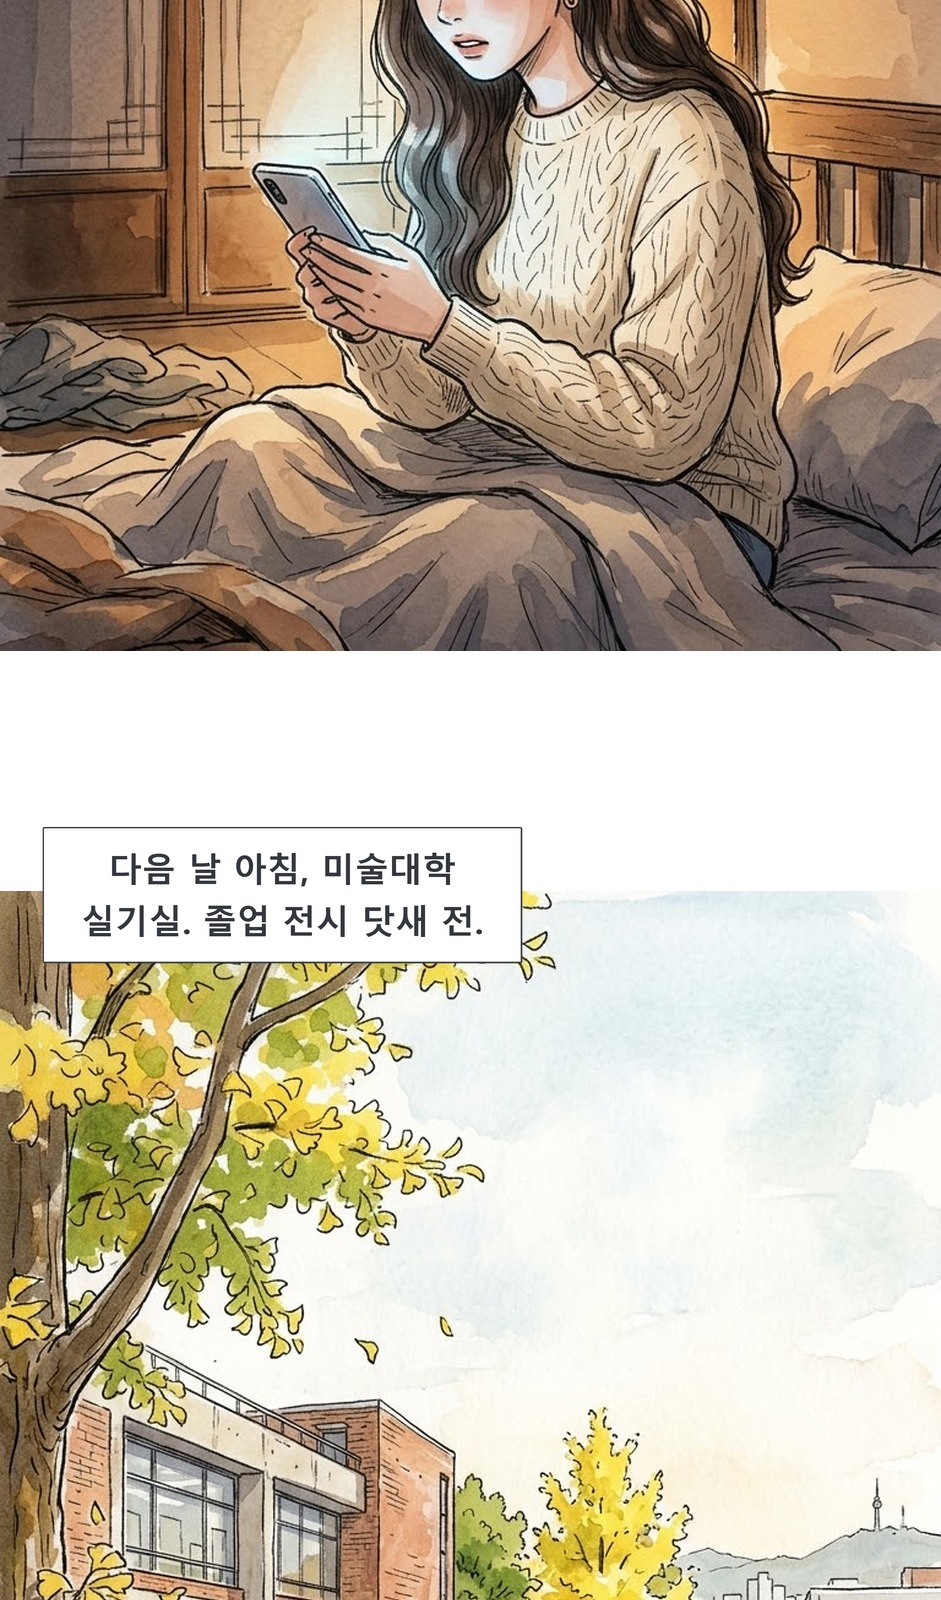
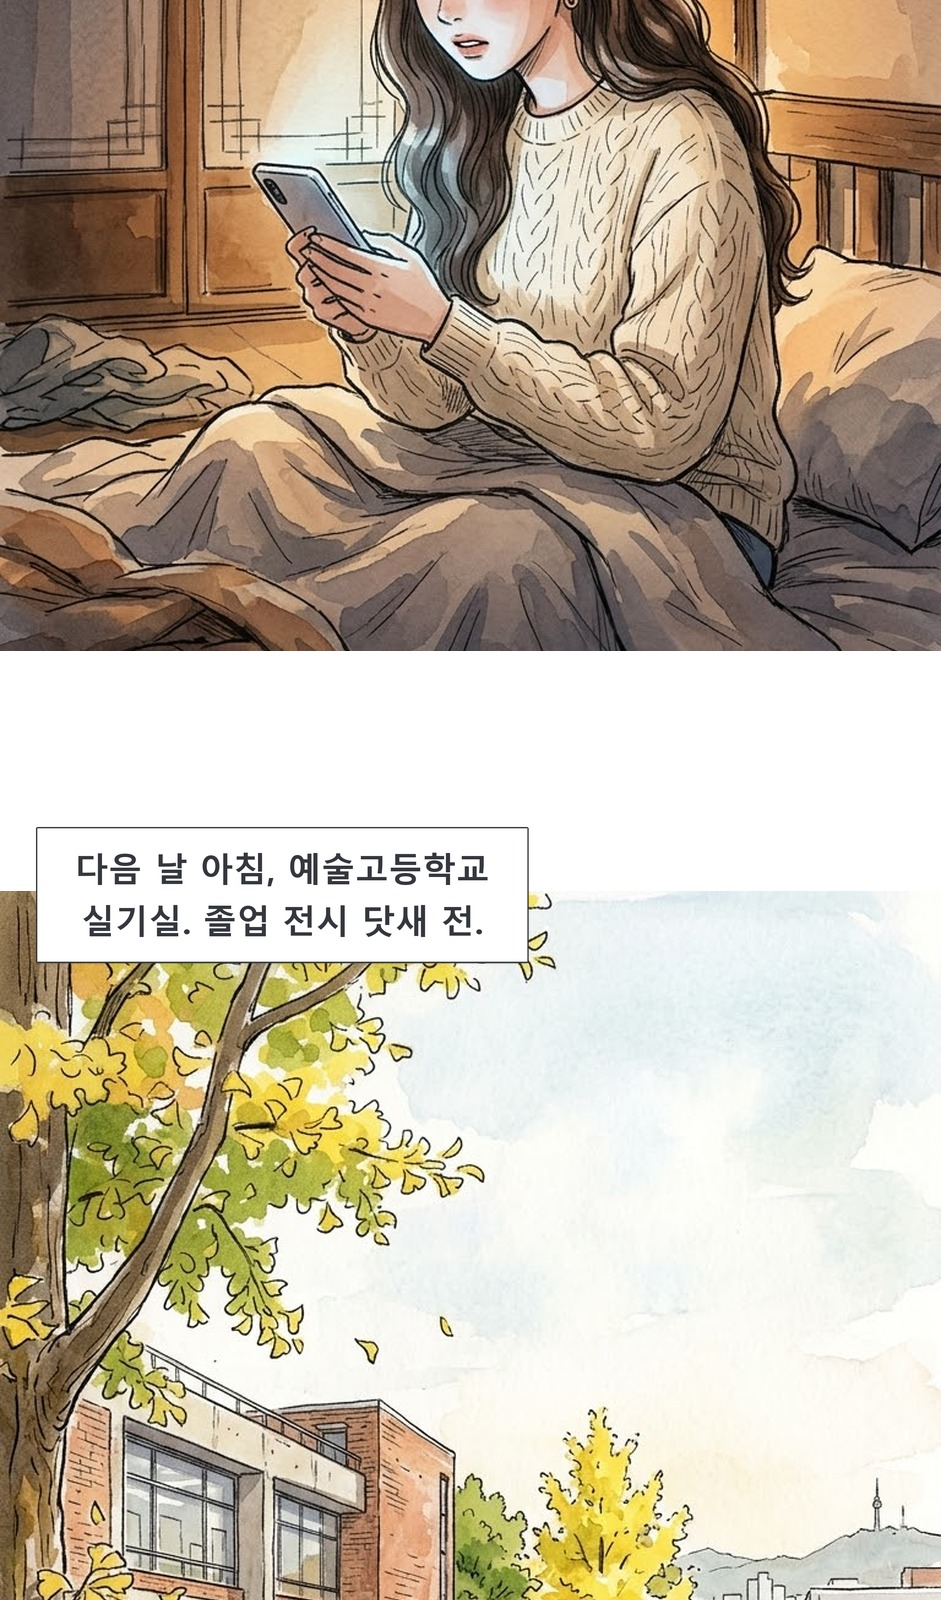
fix: 이마리 통합 캐논 v3 반영 — 시즌1 8화 '예술고등학교 실기실', 시즌2 2화 "공대생 얼굴 좀 봐"
아름 2007년생·하임 2010년생(2026년 19·16세, 2030년 23·20세)에 맞춤.

diff --git a/index.html b/index.html
@@ -61,7 +61,7 @@ footer{text-align:center;color:var(--muted);font-size:12px;padding:24px 16px 40p
 <nav id="nav"></nav>
 <main id="main"></main>
 <footer>여호수아 시즌1은 기존 Joshua-story 사이트에서 열립니다.</footer>
-<script src="data.js?v=202610252232"></script>
+<script src="data.js?v=202610260109"></script>
 <script>
 const esc = s => String(s).replace(/[&<>"]/g, c => ({'&':'&amp;','<':'&lt;','>':'&gt;','"':'&quot;'}[c]));
 const nav = document.getElementById('nav'), main = document.getElementById('main');

diff --git a/viewer.html b/viewer.html
@@ -41,7 +41,7 @@ select{font:inherit;font-size:13px;padding:4px 6px;border:1px solid var(--line);
   <p id="endNote"></p>
   <div class="nav" id="nav"></div>
 </div>
-<script src="data.js?v=202610252232"></script>
+<script src="data.js?v=202610260109"></script>
 <script>
 const sid = new URLSearchParams(location.search).get('s') || 'pureday';  // 2026-10-20 시즌2 카드
 const s = window.PORTAL.series.find(x => x.id === sid) || window.PORTAL.series.find(x => x.id === 'pureday');
